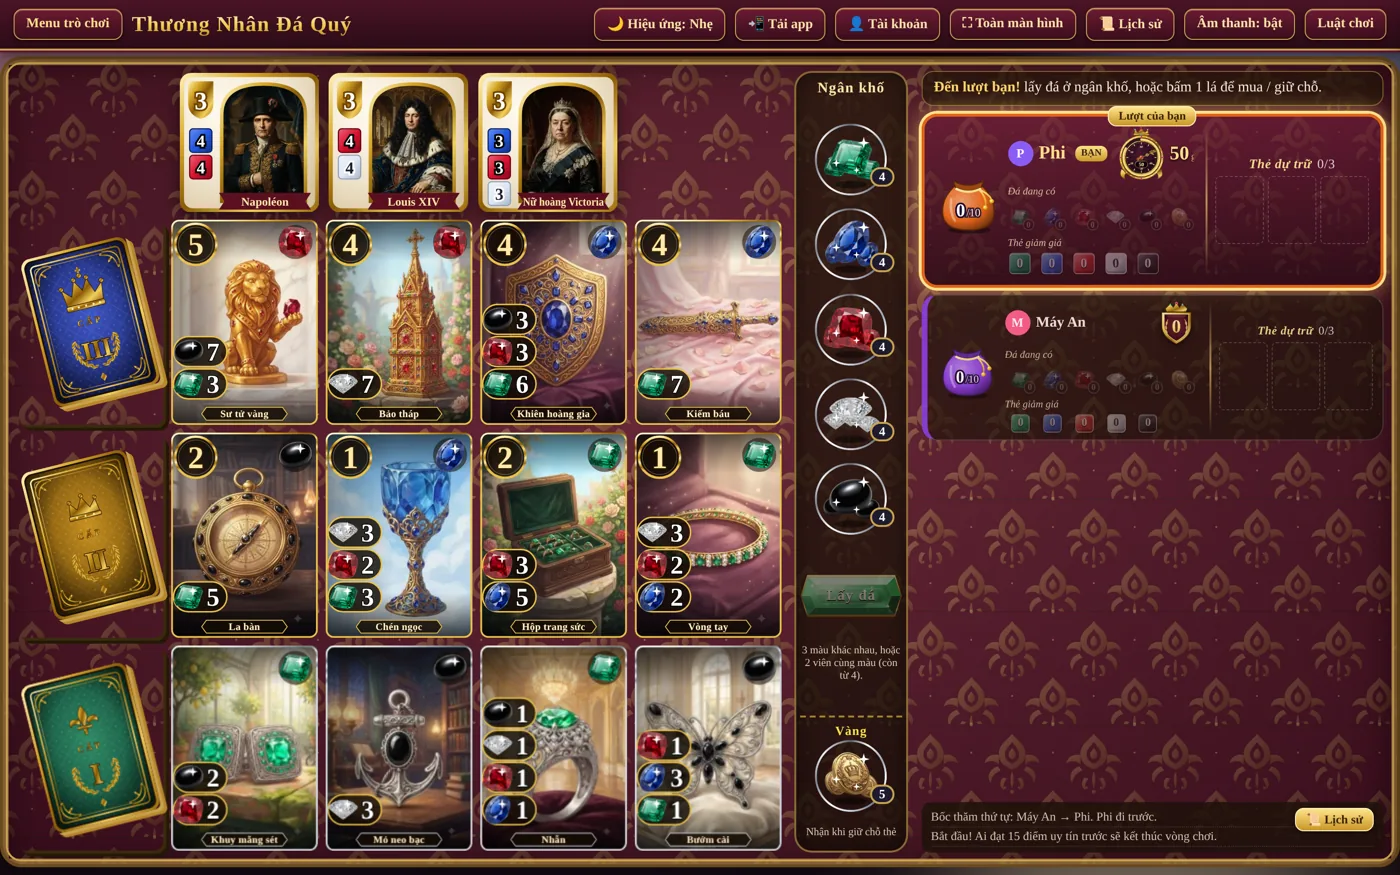
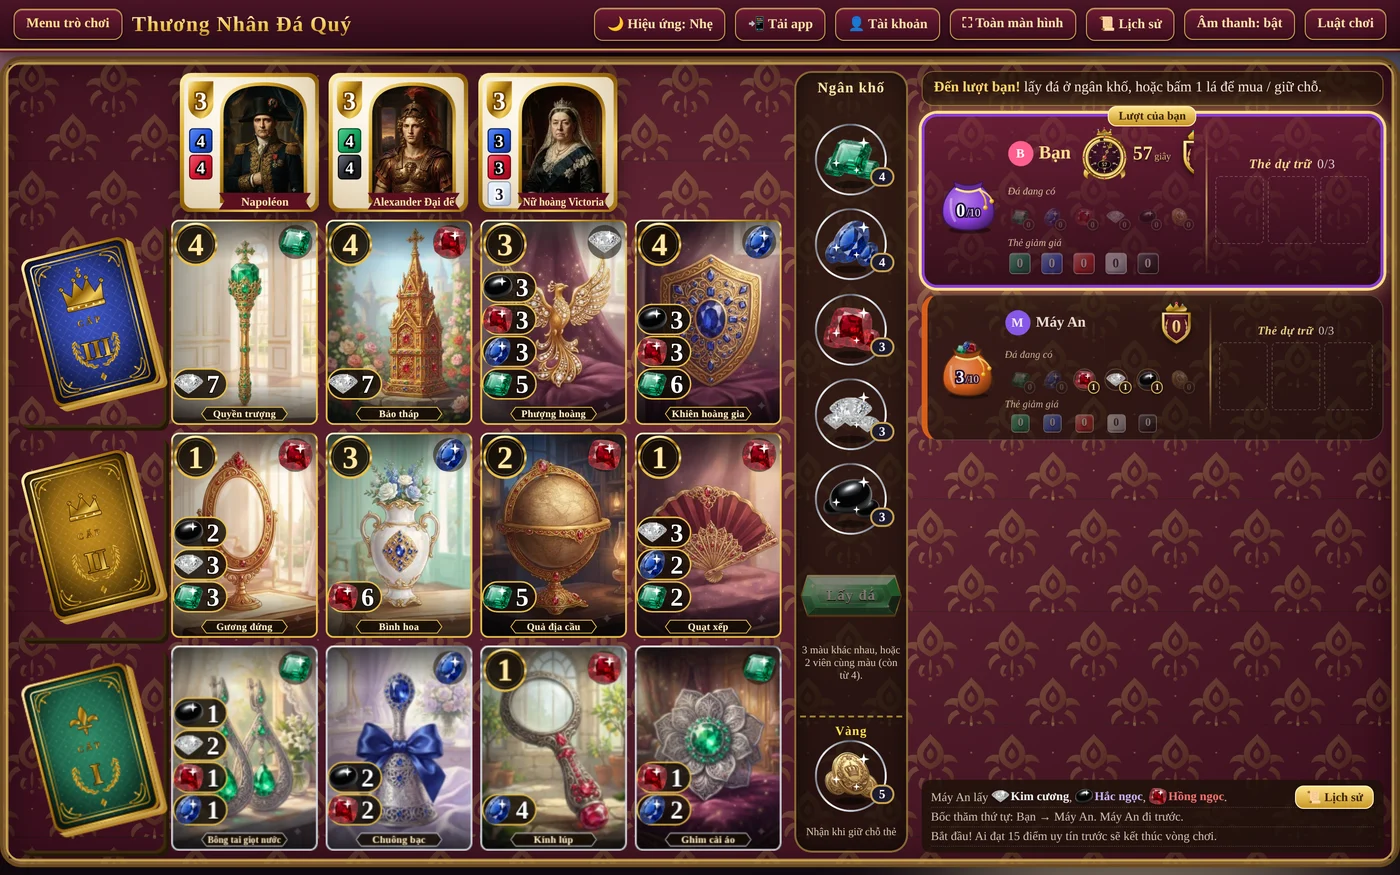
Luật chơi: ảnh màn hình ghi 'Bạn' thay vì tên Phi
Claude-Session: https://claude.ai/code/session_01C6iMujCmX6wKKq45Tr3EAE

diff --git a/games/da-quy/luat.html b/games/da-quy/luat.html
@@ -151,7 +151,7 @@ main{max-width:none;padding:12px 18px 50px}
   <h2><span class="no">1</span>Giới thiệu</h2>
   <p>Bạn là một thương nhân thời Phục hưng. Bạn gom đá quý để mua các bảo vật quý giá (thẻ). Mỗi thẻ vừa cho điểm uy tín, vừa là một viên đá quý vĩnh viễn giúp bạn mua thẻ sau rẻ hơn.</p>
   <p>Xây "động cơ kinh tế" càng sớm thì về sau càng mua được thẻ đắt và nhiều điểm. Khi đủ thẻ của một màu, các quý tộc sẽ ghé thăm và tặng thêm điểm.</p>
-  <img class="boardshot" src="assets/rules/ban-choi.webp" alt="Bàn chơi Thương Nhân Đá Quý" loading="lazy">
+  <img class="boardshot" src="assets/rules/ban-choi.webp?v=2" alt="Bàn chơi Thương Nhân Đá Quý" loading="lazy">
 </section>
 
 <section class="box" id="thanh-phan">

diff --git a/games/dao-khai-hoang/luat.html b/games/dao-khai-hoang/luat.html
@@ -176,7 +176,7 @@ footer{text-align:center;color:#fff;text-shadow:0 1px 3px #000;font-size:14px}
   <h2><span class="no">1</span>Giới thiệu</h2>
   <p>Bạn và các đối thủ là những người đi khai hoang trên một hòn đảo hoang. Mỗi người xây đường, nhà và thành phố để thu tài nguyên, trao đổi với nhau và xây dựng để kiếm điểm. Ai đạt 10 điểm trước thì thắng.</p>
   <p>Trò chơi kết hợp may rủi (đổ xúc xắc) với đàm phán và lập kế hoạch.</p>
-  <img class="shot" src="assets/rules/ban-choi.webp" alt="Màn hình chơi Đảo Khai Hoang" loading="lazy">
+  <img class="shot" src="assets/rules/ban-choi.webp?v=2" alt="Màn hình chơi Đảo Khai Hoang" loading="lazy">
 </section>
 
 <section class="box" id="thanh-phan">
